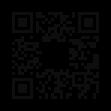
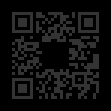
Better QR code visibility

diff --git a/docs/index.html b/docs/index.html
@@ -82,8 +82,7 @@
     .content {
       width: fit-content;
       background-color: #000;
-      /* margin: auto; */
-      padding: 30px;
+      padding: 10px;
       margin: 50px 5% 0px 5%;
       border-radius: 20px;
     }
